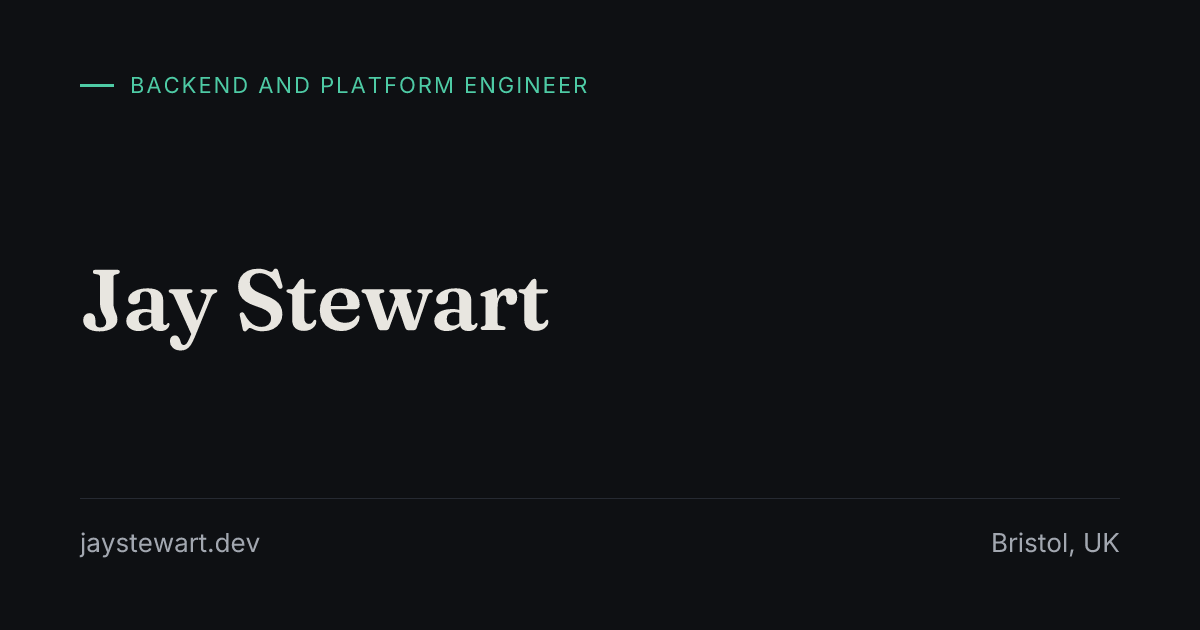
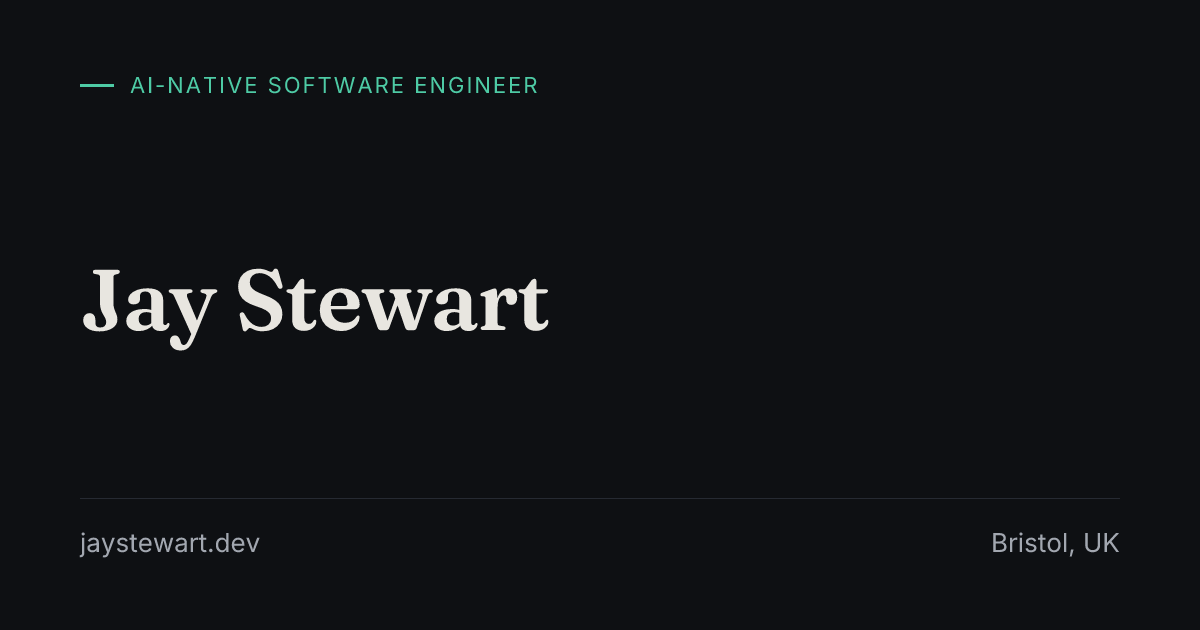
Reposition the site: measured AI-native practice, not an audit shop
The Level 5 redesign (2026-08-15/16) retired the audit-as-product strategy;
this moves the site's spine from selling a £2,000-£5,000 audit to arguing
the new case: production systems where agents write most of the code,
measured from git history, written up honestly, with a research posture
toward what this does inside real teams.

- site.ts: role becomes 'AI-native software engineer'; description and
  tagline lead with the measured practice; nav drops the emphasized Audit
  item for an emphasized Contact; auditMailto becomes conversationMailto
  with a conversation subject.
- Home: new H1 and deck (the 8-in-10 counted claim leads), the audit band
  becomes an evidence band (practice / tool / measurements), the closing
  section invites a research conversation instead of closing a sale.
- /audit/: reframed from offer page to method write-up — prices, packages
  and the founding-client clause removed; scope, deliverables, the worked
  finding example and the sample report stay as evidence.
- /audit/sample/: CTA now invites running the open-source tool and
  comparing notes.
- About gains a 'where this is going' paragraph: from running the practice
  to measuring it, and toward the team/organizational questions — stated as
  a start, not an arrival.
- Contact and footer lead with the practice and the research invitation;
  the open-to-roles line stays.
- Flagship case study ends on the method write-up and the research
  question instead of the offer funnel.
[…]

Changed region(s): [[0.0925, 0.1206, 0.4933, 0.1508]]

diff --git a/src/data/site.ts b/src/data/site.ts
@@ -11,7 +11,7 @@ import { yearsOfExperience } from './experience.ts';
 export const site = {
   name: 'Jay Stewart',
   origin: 'https://jaystewart.dev',
-  role: 'Backend and platform engineer',
+  role: 'AI-native software engineer',
   location: 'Bristol, UK',
   locality: 'Bristol',
   region: 'England',
@@ -23,54 +23,54 @@ export const site = {
 
   /**
    * Used as the default meta description and the OG description on the home
-   * page, and as the JSON-LD description of the site. It leads with the audit
-   * because this string is what a search result and a shared link show, and
-   * the audit is what the site is currently selling.
+   * page, and as the JSON-LD description of the site. It leads with the
+   * measured practice because that is what the site now argues: evidence of
+   * AI-native engineering, not an offer. (The audit-offer version of this
+   * string was retired 2026-08-16 with the strategy that needed it.)
    *
    * The years figure is interpolated rather than written out, and it has now
    * been wrong twice: hardcoded as "twelve" while `yearsOfExperience()` two
    * files away returned fourteen, and then correctly interpolating a fourteen
-   * that itself counted a six-year career break as experience. Both were
-   * claims about the author on the string that advertises an audit of claims
-   * nobody checks. It now derives from the same `roles` array the About-page
-   * timeline renders, with breaks excluded, so the number cannot contradict
-   * the history shown directly beneath it.
+   * that itself counted a six-year career break as experience. It derives
+   * from the same `roles` array the About-page timeline renders, with breaks
+   * excluded, so the number cannot contradict the history shown beneath it.
    */
-  description: `Fixed-price agent-readiness audits: every claim in your CLAUDE.md, rules and memory files verified against the repository, with a CI gate left behind so the lies cannot come back. Run by a backend and platform engineer with ${yearsOfExperience()} years on systems that handle payments, transactions and personal data.`,
+  description: `Production systems where AI agents write most of the code — run inside verification gates, measured from git history, and written up honestly. ${yearsOfExperience()} years of backend engineering either side of a six-year break, now researching what AI-native delivery actually changes.`,
 
   /** Short form, used in the footer and structured data. */
-  tagline: 'Backend and platform engineer · agent-operated production systems',
+  tagline: 'AI-native software engineer · agent-operated production systems, measured',
 } as const;
 
 /**
- * Prefilled mailto for an audit enquiry, used by the home page, the offer page
- * and the sample deliverable.
+ * Prefilled mailto for starting a conversation about agent-native
+ * engineering, used by the home page, the method page, the sample report and
+ * the contact page.
  *
- * It lives here rather than in each page for the reason this file exists: all
- * three entry points must carry the same subject line, so that replies thread
- * as one conversation rather than three. It also means the offer's name — still
- * provisional — is one edit here rather than three that can be half-done.
+ * It lives here rather than in each page for the reason this file exists:
+ * every entry point must carry the same subject line, so that replies thread
+ * as one conversation rather than several. The subject deliberately invites
+ * a conversation rather than naming an offer — there is none published.
  */
-export const auditMailto = `mailto:${site.email}?subject=${encodeURIComponent('Agent-readiness audit')}`;
+export const conversationMailto = `mailto:${site.email}?subject=${encodeURIComponent('Agents in your team')}`;
 
 export type NavItem = {
   readonly href: string;
   readonly label: string;
   /**
    * Marks the one item that is the site's primary call to action, so it reads
-   * as an offer rather than as the second of six equal-weight links. Exactly
-   * one item should carry it — the point is contrast.
+   * as an invitation rather than as the second of six equal-weight links.
+   * Exactly one item should carry it — the point is contrast.
    */
   readonly emphasis?: boolean;
 };
 
 export const nav: readonly NavItem[] = [
-  { href: '/audit/', label: 'Audit', emphasis: true },
   { href: '/work/', label: 'Work' },
   { href: '/notes/', label: 'Notes' },
   { href: '/work/agent-operated-codebase/', label: 'Agents' },
   { href: '/about/', label: 'About' },
   { href: '/philosophy/', label: 'Philosophy' },
+  { href: '/contact/', label: 'Contact', emphasis: true },
 ];
 
 /** Absolute URL for a site-relative path. */
